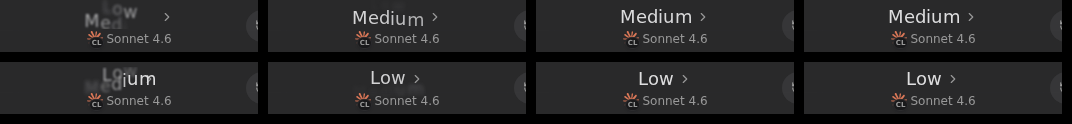
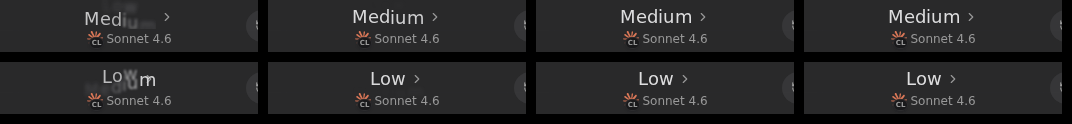
fix(web): effort names no longer stack in production builds
The minifier turned the roll's nameless animation shorthand into
`animation: none`, so in packaged builds the outgoing name never faded and
sat on top of the new one. Use longhands, and drop the outgoing name after
450ms so two names can never stay stacked.

Claude-Session: https://claude.ai/code/session_01Uec88zuBK9o8hxpd65rksR

diff --git a/apps/web/src/viewcode-theme.css b/apps/web/src/viewcode-theme.css
@@ -288,8 +288,12 @@ html[data-theme-id^="viewcode"]:not([data-theme-id=""]) [data-slot="standalone-g
 [data-viewcode-roll] {
   display: inline-block;
   white-space: pre;
-  animation: 320ms cubic-bezier(0.2, 0.8, 0.2, 1) both;
-  animation-delay: calc(var(--i, 0) * 18ms);
+  /* Longhands on purpose: the minifier rewrites a nameless `animation`
+     shorthand to `animation: none`, dropping duration and fill. */
+  animation-duration: 280ms;
+  animation-timing-function: cubic-bezier(0.2, 0.8, 0.2, 1);
+  animation-fill-mode: both;
+  animation-delay: calc(var(--i, 0) * 16ms);
 }
 [data-viewcode-roll="in"] {
   animation-name: viewcode-roll-in;
@@ -299,7 +303,7 @@ html[data-theme-id^="viewcode"]:not([data-theme-id=""]) [data-slot="standalone-g
 }
 @media (prefers-reduced-motion: reduce) {
   [data-viewcode-roll] {
-    animation: none;
+    animation-name: none;
   }
   [data-viewcode-roll="out"] {
     opacity: 0;

diff --git a/apps/web/src/components/chat/ComposerModelEffortPicker.tsx b/apps/web/src/components/chat/ComposerModelEffortPicker.tsx
@@ -540,6 +540,14 @@ function EffortTitle(props: {
     { id: 0, text: props.text, rank: props.rank, roll: 1, animate: false },
   ]);
   const current = labels[labels.length - 1];
+  // Drop the outgoing name once its roll has finished, so two names can never
+  // stay stacked even if the animation doesn't run.
+  const hasOutgoing = labels.length > 1;
+  useEffect(() => {
+    if (!hasOutgoing) return;
+    const timer = window.setTimeout(() => setLabels((all) => all.slice(-1)), 450);
+    return () => window.clearTimeout(timer);
+  }, [hasOutgoing, current?.id]);
   if (current && current.text !== props.text) {
     const roll = props.rank < current.rank ? -1 : 1;
     setLabels([

diff --git a/docs/internals/viewcode.md b/docs/internals/viewcode.md
@@ -178,6 +178,11 @@ so the next person (or agent) doesn't rediscover them. Product intent lives in
   `.github/triage/PLAYBOOK.md`; don't rebrand one without the other.
 - **Effect lint** prefers `Effect.filterOrElse` over `flatMap` with an identity
   branch, and `DateTime` over `new Date()`.
+- **The production CSS minifier rewrites a nameless `animation` shorthand to
+  `animation: none`**, silently dropping duration and fill mode; dev (unminified)
+  looks fine. Use longhands (`animation-duration`, …) in `viewcode-theme.css`,
+  and check animations against a production build (`vp build`, then run the
+  server without `--dev-url` so it serves `apps/web/dist`).
 - **tailwind-merge** drops one of two background images in `cn(...)`; keep
   sparkle/gradient classes out of `cn()`.
 
